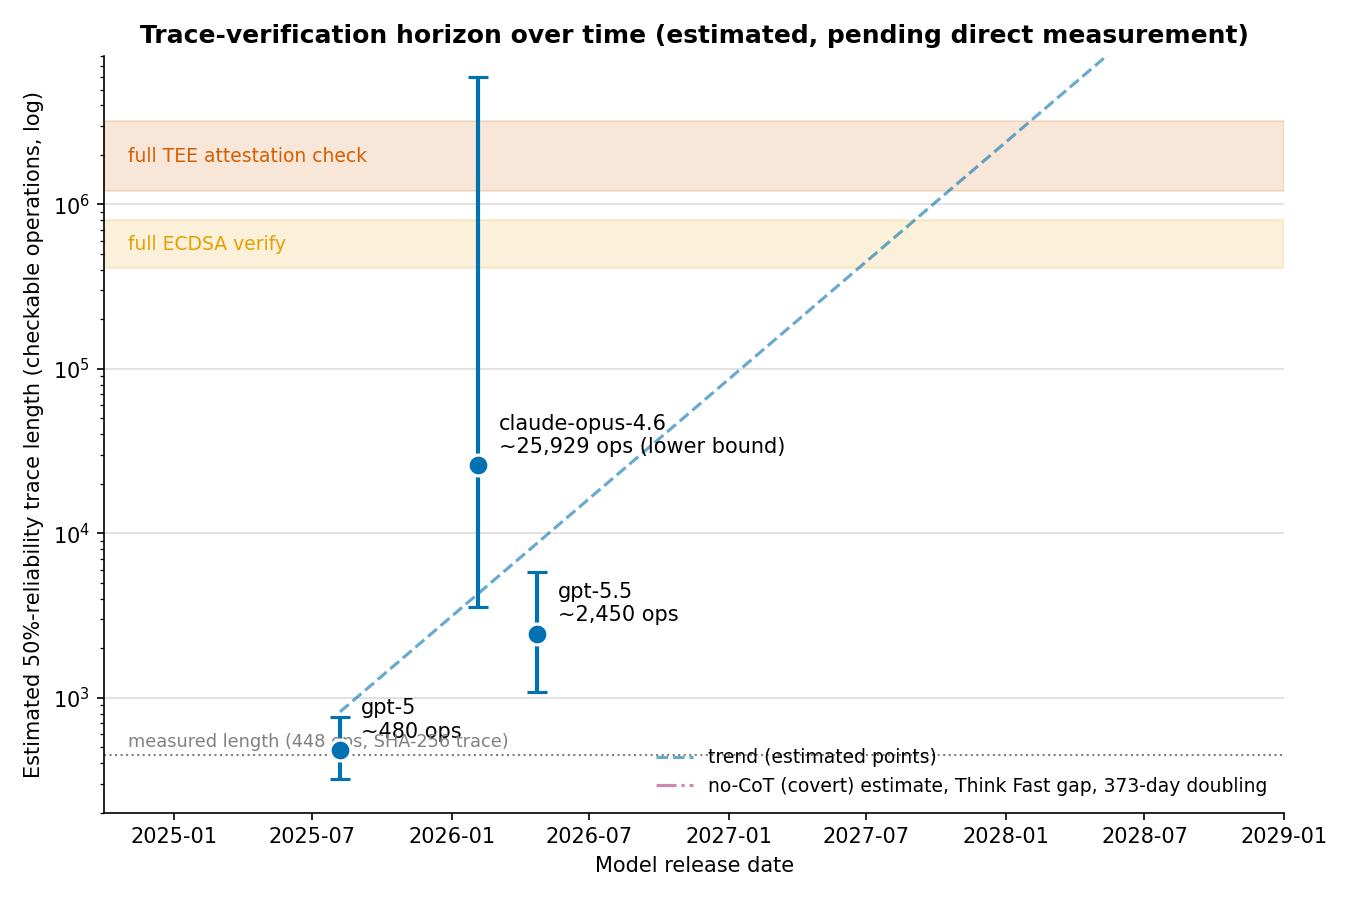
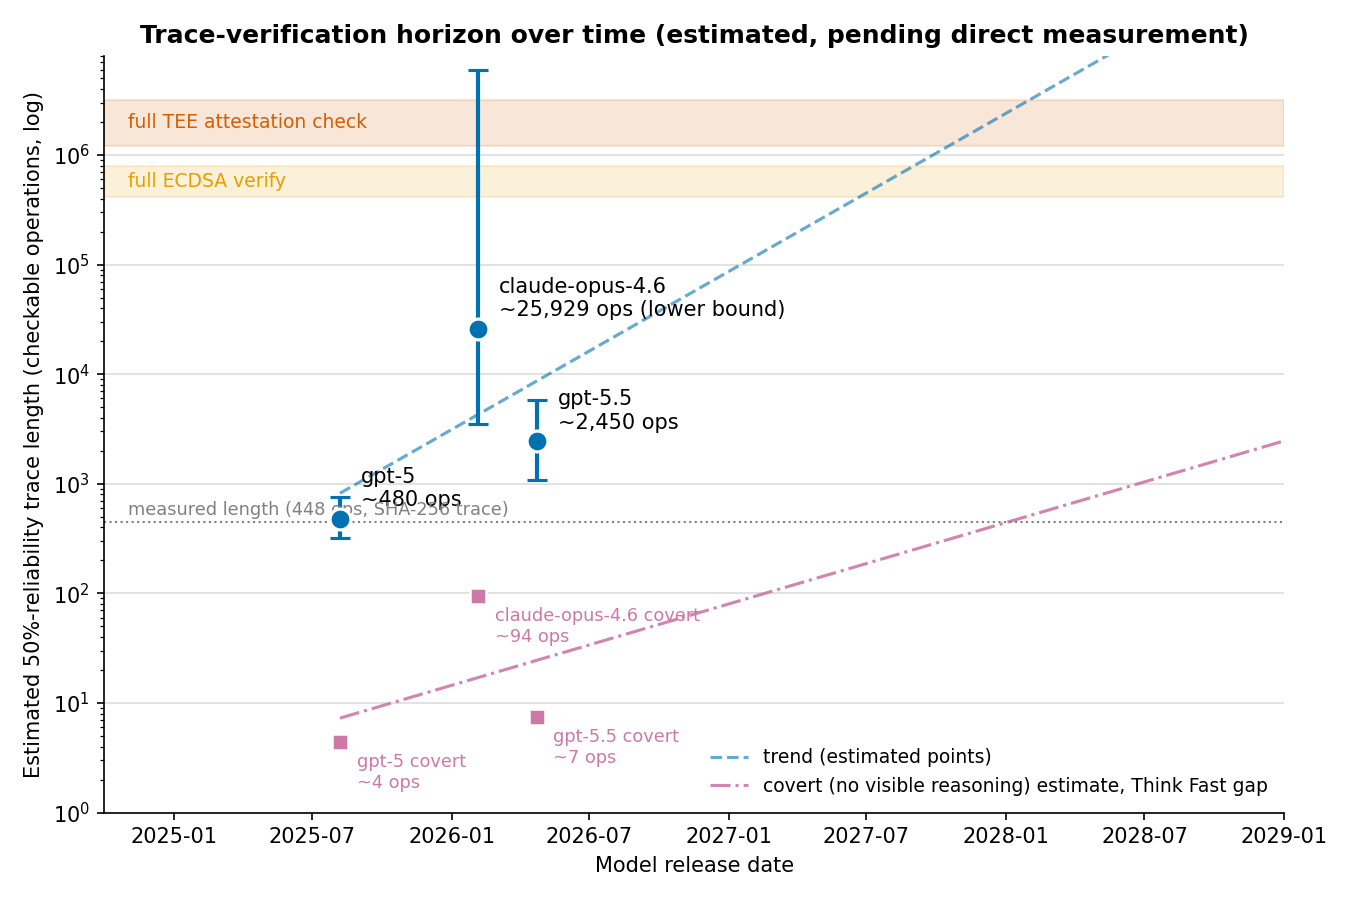
Rework horizon plots: 3-point covert trend, frontier-only detection curve

diff --git a/plots/make_pareto_horizon_plot.py b/plots/make_pareto_horizon_plot.py
@@ -24,62 +24,50 @@ DATA = {
 }
 
 def pareto_frontier(points):
-    # points: list of (horizon, tp_pct, name). Lower horizon + higher tp_pct is better.
     pts = sorted(points, key=lambda p: p[0])
     frontier, best_tp = [], -1.0
     for h, tp, name in pts:
-        if tp >= best_tp:
-            frontier.append((h, tp, name))
-            best_tp = tp
+        if tp > best_tp:
+            frontier.append((h, tp, name)); best_tp = tp
     return frontier
 
+import numpy as np
 points = []
-for name, (h, est, hits, n) in DATA.items():
-    tp_pct = 100 * hits / n
-    se = 100 * math.sqrt((hits / n) * (1 - hits / n) / n)
-    points.append((h, tp_pct, name, est, se))
+for name, (h, est, k, n) in DATA.items():
+    points.append((h, 100.0 * k / n, name))
+frontier = pareto_frontier(points)
+dominated = [p for p in points if p not in frontier]
 
-frontier = pareto_frontier([(h, tp, name) for h, tp, name, est, se in points])
-frontier_names = {name for _, _, name in frontier}
-
-fig, ax = plt.subplots(figsize=(9, 6))
-
-for h, tp, name, est, se in points:
-    marker = "^" if est else "o"
-    on_frontier = name in frontier_names
-    color = "#1f77b4" if on_frontier else "#999999"
-    ax.errorbar(h, tp, yerr=1.96 * se, fmt=marker, color=color, markersize=11,
-                capsize=4, zorder=3)
-    label = f"{name}\n({tp:.1f}%)" + (" est." if est else "")
-    ax.annotate(label, (h, tp), textcoords="offset points", xytext=(10, 8), fontsize=9)
-
-fx = [h for h, tp, name in frontier]
-fy = [tp for h, tp, name in frontier]
-ax.plot(fx, fy, "--", color="#1f77b4", linewidth=2, zorder=2, label="frontier (best detection achieved up to each horizon)")
-
-dominated = [(h, tp) for h, tp, name, est, se in points if name not in frontier_names]
-for h, tp in dominated:
-    ax.scatter([h], [tp], marker="x", s=140, color="#d62728", zorder=4)
-
+fig, ax = plt.subplots(figsize=(8, 5.2))
+fx = [h for h, tp, _ in frontier]
+fy = [tp for _, tp, _ in frontier]
+# smooth fitted curve through the frontier points (quadratic in log10 horizon)
+lx = np.log10(fx)
+coef = np.polyfit(lx, fy, 2)
+xs = np.logspace(np.log10(min(fx)), np.log10(max(fx)), 200)
+ys = np.polyval(coef, np.log10(xs))
+ax.plot(xs, np.clip(ys, 0, None), "--", color="#0072B2", linewidth=2, zorder=2,
+        label="fitted trend through the frontier points")
+for h, tp, name in frontier:
+    est = DATA[name][1]
+    ax.plot([h], [tp], "o", markersize=11, color="#0072B2",
+            markeredgecolor="white", markeredgewidth=1.5, zorder=3)
+    ax.annotate(f"{name}\n{tp:.1f}%" + (" est." if est else ""), (h, tp),
+                textcoords="offset points", xytext=(10, 8), fontsize=10)
 ax.set_xscale("log")
-ticks = sorted({h for h, tp, name, est, se in points})
+ticks = [7, 30, 120, 719]
 ax.set_xticks(ticks)
-ax.get_xaxis().set_major_formatter(FuncFormatter(lambda v, _: f"{int(v)}"))
-ax.set_xticklabels([f"{int(v)}" for v in ticks], rotation=40, ha="right")
-ax.set_xlabel("METR 50%-time-horizon, minutes (log scale; triangles = ECI-estimated)")
+ax.set_xticklabels([f"{int(v)}" for v in ticks])
+ax.set_xlabel("METR 50%-time-horizon, minutes (log scale)")
 ax.set_ylabel("Tamper caught, exact round named (%, higher is better)")
-ax.set_ylim(-2, 25)
-ax.legend(loc="upper left", fontsize=9)
-ax.set_title("Raw trace: detection vs task-length horizon,\nrising along the frontier but not monotonic in capability")
-ax.grid(alpha=0.3)
-
-fig.subplots_adjust(bottom=0.30)
-fig.text(0.5, 0.01,
-          "Red X = dominated (another model reaches equal-or-better detection at a lower horizon). n=42 tampered traces/model, 95% CI. gpt-5.5's horizon is ECI-estimated, not measured.",
-          ha="center", fontsize=8, wrap=True)
-
+ax.set_ylim(-2, 26)
+ax.set_title("Raw trace: detection vs task-length horizon, frontier models",
+             fontsize=12, weight="bold")
+ax.grid(True, axis="y", color="#DDDDDD", linewidth=0.8, zorder=0)
+ax.spines[["top", "right"]].set_visible(False)
+ax.legend(frameon=False, fontsize=9, loc="upper left")
+fig.tight_layout()
 out = "/home/ram/obsidian/experiments/260706-credible-deals-polish/rq3-replication/plots/tp_r4r_vs_horizon_pareto.png"
 fig.savefig(out, dpi=150)
-print(f"wrote {out}")
-print("Pareto-optimal:", [n for _, _, n in frontier])
-print("Dominated:", [name for h, tp, name, est, se in points if name not in frontier_names])
+print("wrote", out)
+print("frontier:", [n for _, _, n in frontier], "| dropped per Ram:", [n for _, _, n in dominated])

diff --git a/plots/make_ops_horizon_plot.py b/plots/make_ops_horizon_plot.py
@@ -84,28 +84,38 @@ for name, lo, hi, col in [("full ECDSA verify", 410_000, 800_000, "#E69F00"),
     cross = (math.log10((lo * hi) ** 0.5) - inter) / slope
     print(f"{name}: trend crosses ~{mdates.num2date(cross).date()}")
 
-# No-CoT (covert) estimate: anchor from the Think Fast paper (arXiv 2606.07157) gap.
-# gpt-5.5 no-CoT task horizon >3 min vs its with-CoT horizon (~150x gap), and its
-# ~1,500-reasoning-token horizon at ~30 tokens/checkable line, both give a few dozen
-# ops today; grown at the paper's no-CoT doubling time of 373 days.
-NOCOT_ANCHOR_DATE = date(2026, 4, 23)   # gpt-5.5 release
-NOCOT_ANCHOR_OPS = 25                   # central estimate; range ~15-75
-x0 = mdates.date2num(NOCOT_ANCHOR_DATE)
-slope_nocot = math.log10(2) / 373
-x_no = [x0, mdates.date2num(date(2028, 12, 31))]
-ax.plot([mdates.num2date(a) for a in x_no],
-        [NOCOT_ANCHOR_OPS * 10 ** (slope_nocot * (a - x0)) for a in x_no],
+# No-CoT (covert) estimates, one point per model (Think Fast, arXiv 2606.07157).
+# Per-model no-CoT task horizon back-cast from the paper's frontier anchor
+# (gpt-5.5 ~3 min at 2026-04) along its 373-day doubling; per-model gap ratio =
+# with-CoT METR-style horizon / no-CoT horizon; covert N50 = N50_cot / ratio.
+WITHCOT_MIN = {"gpt-5": 203, "claude-opus-4.6": 719, "gpt-5.5": 993}
+anchor_num = mdates.date2num(date(2026, 4, 23))
+cov_x, cov_y = [], []
+for (label, rel, k, n, lb), y_cot in zip(MODELS, ys):
+    days_before = anchor_num - mdates.date2num(rel)
+    nocot_min = 3.0 / (2 ** (days_before / 373))
+    ratio = WITHCOT_MIN[label] / nocot_min
+    cov_x.append(rel); cov_y.append(y_cot / ratio)
+ax.plot(cov_x, cov_y, "s", markersize=8, color="#CC79A7",
+        markeredgecolor="white", markeredgewidth=1.2, zorder=3)
+for x, y, (label, *_ ) in zip(cov_x, cov_y, MODELS):
+    ax.annotate(f"{label} covert\n~{y:,.0f} ops", (x, y), textcoords="offset points",
+                xytext=(8, -22), fontsize=8.5, color="#CC79A7")
+cxo = [mdates.date2num(x) for x in cov_x]
+cly = [math.log10(y) for y in cov_y]
+csx, csy = sum(cxo), sum(cly)
+csxx = sum(a * a for a in cxo); csxy = sum(a * b for a, b in zip(cxo, cly))
+cslope = (3 * csxy - csx * csy) / (3 * csxx - csx * csx)
+cinter = (csy - cslope * csx) / 3
+ax.plot([mdates.num2date(a) for a in xs_fit],
+        [10 ** (cinter + cslope * a) for a in xs_fit],
         ls="-.", color="#CC79A7", alpha=0.9, zorder=2,
-        label="no-CoT (covert) estimate, Think Fast gap, 373-day doubling")
-ax.errorbar([NOCOT_ANCHOR_DATE], [NOCOT_ANCHOR_OPS], yerr=[[10], [50]], fmt="s",
-            markersize=8, capsize=4, color="#CC79A7", markeredgecolor="white", zorder=3)
-ax.annotate("gpt-5.5 covert\n~25 ops", (NOCOT_ANCHOR_DATE, NOCOT_ANCHOR_OPS),
-            textcoords="offset points", xytext=(10, -18), fontsize=9, color="#CC79A7")
+        label="covert (no visible reasoning) estimate, Think Fast gap")
 
 ax.axhline(448, color="gray", lw=1, ls=":")
-ax.text(date(2024, 11, 1), 500, "measured length (448 ops, SHA-256 trace)", fontsize=8.5, color="gray")
+ax.text(date(2024, 11, 1), 520, "measured length (448 ops, SHA-256 trace)", fontsize=8.5, color="gray")
 ax.set_yscale("log")
-ax.set_ylim(200, 8_000_000)
+ax.set_ylim(1, 8_000_000)
 ax.set_xlim(date(2024, 10, 1), date(2029, 1, 1))
 ax.set_xlabel("Model release date")
 ax.set_ylabel("Estimated 50%-reliability trace length (checkable operations, log)")